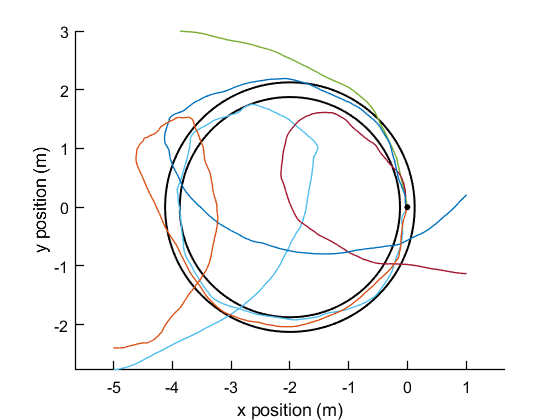
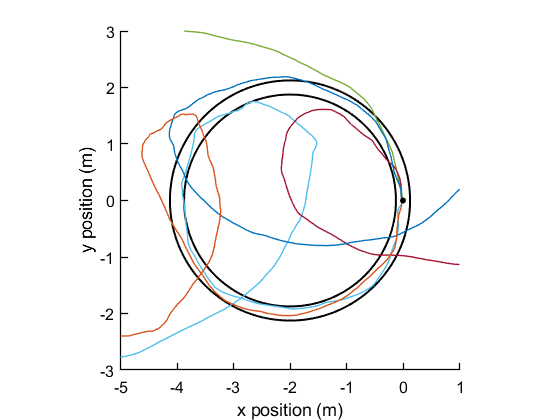
Cleaning up code

diff --git a/main/hw2_main.m b/main/hw2_main.m
@@ -57,26 +57,27 @@ car_MPPI.setDt(1/f_MPPI); % set sampling time to match MPPI frequency
 MPPI = MPPI_Controller(car_MPPI, track, K_MPPI, T_MPPI);
 MPPI.v_des = v_des; % set desired speed
 
-% iLQG
-f_iLQG = 1/dt; % frequency of the iLQG controller
+% Ancillary controller
+f_anc = 1/dt; % frequency of the ancillary controller
 
 % create iLQG controller instance
-car_iLQG = DiscreteLinearSystem();
-car_iLQG.setDt(1/f_iLQG); % set sampling time to match iLQG frequency
+car_anc = DiscreteLinearSystem();
+car_anc.setDt(1/f_anc); % set sampling time to match iLQG frequency
 
-ilqg = iLQG_hw(car_iLQG);
+% create iLQG instance
+%ilqg = iLQG_hw(car_iLQG);
 
 % create PID instance
-Kp = eye(4);
-Kd = eye(4);
-Ki = eye(4); %zeros(4)
-PID = PID_Controller(Kp,Ki,Kd,dt);
+%Kp = eye(4);
+%Kd = eye(4);
+%Ki = eye(4); %zeros(4)
+%PID = PID_Controller(Kp,Ki,Kd,dt);
 
 %create LQR instance
 Q = diag([1,1,1,1]);
 R = diag([0.1,0.1]);
-A = car_iLQG.A;
-B = car_iLQG.B;
+A = car_anc.A;
+B = car_anc.B;
 K = dlqr(A,B,Q,R);
 
 %% Run the simulation
@@ -87,14 +88,14 @@ xlim([-5, 1]);
 ylim([-3, 3]);
 
 % keep track of trajectories (t = 0 -> t = N)
-x_hist = zeros(length(car.x), length(0:1/f_iLQG:T_sim) + 1);
-u_ilqg_hist = zeros(length(car.u), length(x_hist(1,:)));
+x_hist = zeros(length(car.x), length(0:1/f_anc:T_sim) + 1);
+u_anc_hist = zeros(length(car.u), length(x_hist(1,:)));
 u_mppi_hist = zeros(length(car.u), length(x_hist(1,:)));
 u_tot_hist = zeros(length(car.u), length(x_hist(1,:)));
 x_mppi_hist = zeros(length(car.x), length(x_hist(1,:)));
 x_mppi_traj_hist = cell(1, length(x_hist(1,:))); % the chosen rollout
 t_step = 1;
-for t = 0:1/f_iLQG:T_sim
+for t = 0:1/f_anc:T_sim
     if(mod(floor(1000*t), floor(1000*MPPI.dt)) == 0)
         %% Update MPPI at a slower rate to get the current input
         
@@ -103,23 +104,23 @@ for t = 0:1/f_iLQG:T_sim
         MPPI.plotController(); % function to plot all trajectories
     end
 
-    %% Get input for this step from iLQG
+    %% Get input for this step from ancillary controller
     if(has_ancillary)
-        state_error = x_mppi(:, 1) - car.x; % x0 for iLQG
-        u_ilqg = K*state_error; %ilqg.solve(state_error, u_mppi(:, 1));
+        state_error = x_mppi(:, 1) - car.x; % x0 for ancillary
+        u_anc = K*state_error; 
     else
-        u_ilqg = 0;
+        u_anc = 0;
     end
 
     %% Update state of the actual system given the inputs from MPPI and iLQG
-    car.setControl(u_ilqg + u_mppi(:, 1) + car.sampleControlNoise(1));
+    car.setControl(u_anc + u_mppi(:, 1) + car.sampleControlNoise(1));
     x_hist(:, t_step + 1) = car.updateState();
 
     % Save our trajectories
     x_mppi_hist(:, t_step + 1) = x_mppi(:, 1);
     x_mppi_traj_hist{:, t_step + 1} = MPPI.x_traj;
     u_mppi_hist(:, t_step) = u_mppi(:, 1);
-    u_ilqg_hist(:, t_step) = u_ilqg(:, 1);
+    u_anc_hist(:, t_step) = u_anc(:, 1);
     u_tot_hist(:, t_step) = car.u;
 
     %% Plot car

diff --git a/main/plotTrajectory.m b/main/plotTrajectory.m
@@ -15,9 +15,11 @@ track.plotTrack()
 
 x_hist(x_hist == 0) = NaN;
 plot(x_hist(1,:), x_hist(2,:))
+scatter(0,0, 15, 'filled', 'MarkerEdgeColor', 'k', 'MarkerFaceColor', 'k');
 xlabel('x position (m)')
 ylabel('y position (m)')
-
+xlim([-5, 1])
+ylim([-3, 3])
 
 %% High noise no ancillary, multiple starts
 
@@ -33,3 +35,5 @@ end
 scatter(0,0, 15, 'filled', 'MarkerEdgeColor', 'k', 'MarkerFaceColor', 'k');
 xlabel('x position (m)')
 ylabel('y position (m)')
+xlim([-5, 1])
+ylim([-3, 3])
